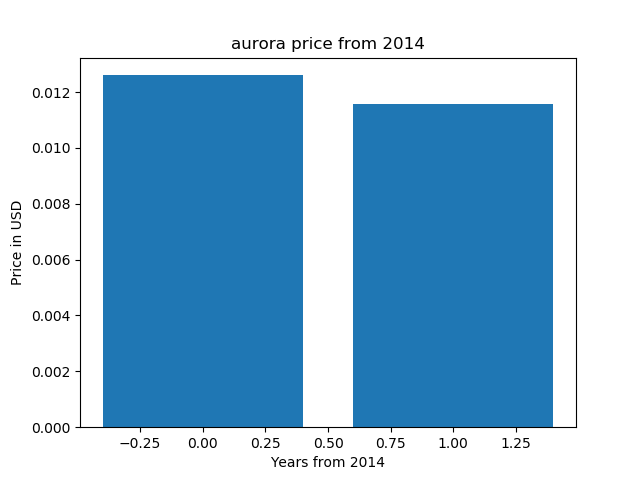
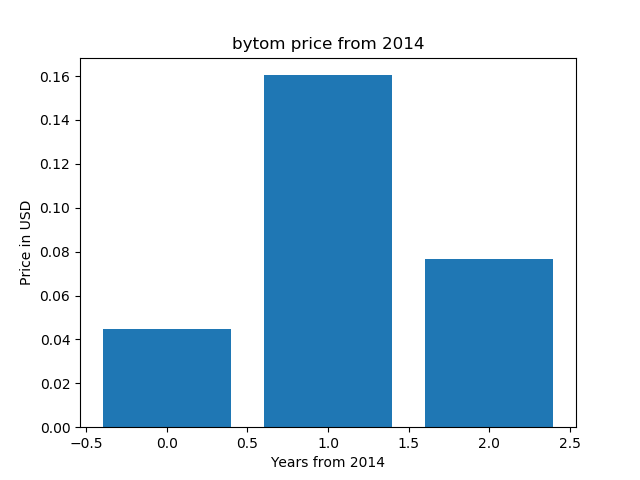
first commit

diff --git a/example.py b/example.py
@@ -10,7 +10,7 @@ from time import gmtime, strftime
 import matplotlib.pyplot as plt
 
 enddate = strftime("%Y%m%d", gmtime())
-r  = requests.get("https://coinmarketcap.com/currencies/aurora/historical-data/?start=20140101&end={0}".format(enddate))
+r  = requests.get("https://coinmarketcap.com/currencies/bytom/historical-data/?start=20140101&end={0}".format(enddate))
 data = r.text
 
 soup = BeautifulSoup(data, "html.parser")
@@ -44,7 +44,7 @@ print(x)
 
 x = list(range(0, len(prices)))
 
-plt.title('aurora price from 2014')
+plt.title('bytom price from 2014')
 plt.ylabel('Price in USD')
 plt.xlabel('Years from 2014')
 plt.bar(x, prices)

diff --git a/README.md b/README.md
@@ -1,6 +1,6 @@
-# aurora price chart 
+# bytom price chart 
 
-aurora price chart (matplotlib, python)
+bytom price chart (matplotlib, python)
 
 https://pythonprogramminglanguage.com
 
